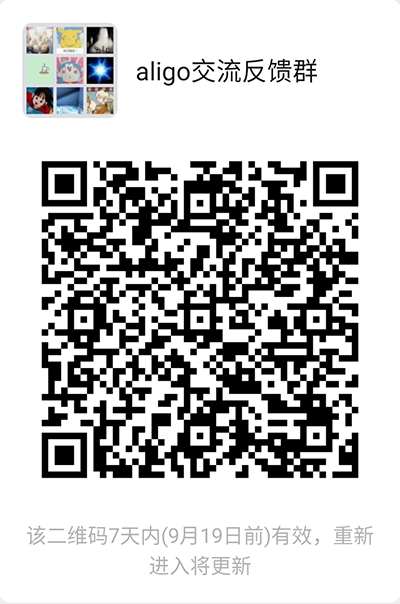
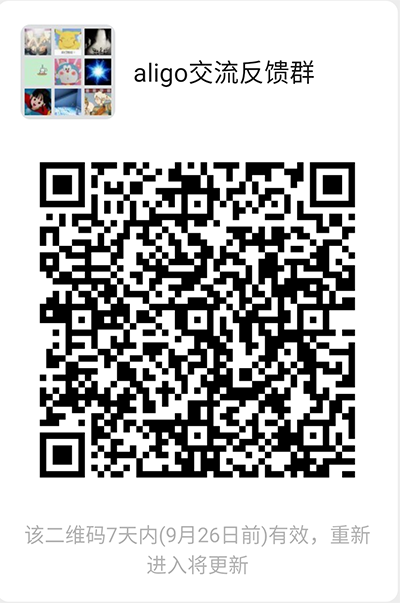
1. 解决当上传文件大小为0时出现的错误 2. 更新交流群二维码

diff --git a/aligo/core/Create.py b/aligo/core/Create.py
@@ -65,7 +65,7 @@ class Create(BaseAligo):
         """计算proof_code"""
         md5_int = int(hashlib.md5(self._token.access_token.encode()).hexdigest()[:16], 16)
         # file_size = os.path.getsize(file_path)
-        offset = md5_int % file_size
+        offset = md5_int % file_size if file_size else 0
         if file_path.startswith('http'):
             bys = requests.get(file_path, headers={
                 'referer': 'https://www.aliyundrive.com/',
